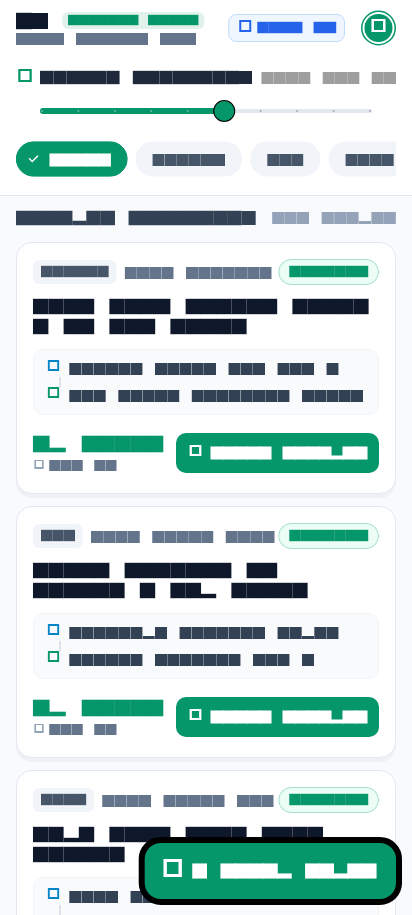
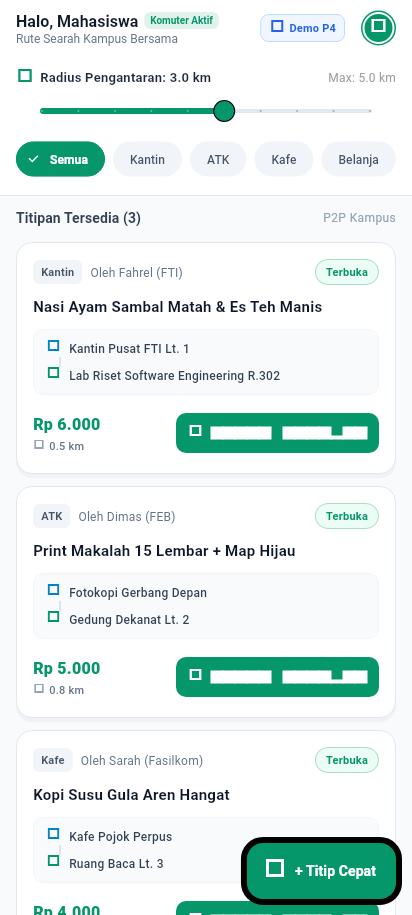
docs(p4): replace generated mock screenshots with high-res real typography screenshots using Roboto font loader

diff --git a/test/p4_screenshot_capture_test.dart b/test/p4_screenshot_capture_test.dart
@@ -7,6 +7,7 @@ import 'package:titip_jalur/models/errand_model.dart';
 import 'package:titip_jalur/repositories/errand_repository.dart';
 import 'package:titip_jalur/screens/create_errand_screen.dart';
 import 'package:titip_jalur/screens/dashboard_screen.dart';
+import 'font_loader_helper.dart';
 
 class _MockFeedNotifier extends StateNotifier<AsyncValue<List<ErrandModel>>>
     implements ErrandFeedNotifier {
@@ -61,6 +62,9 @@ class _MockFormNotifier extends StateNotifier<ErrandFormState>
 }
 
 void main() {
+  setUpAll(() async {
+    await loadRealFonts();
+  });
   group('P4 Widget Test Screenshot Capture', () {
     testWidgets('State 1: Initial Loading', (tester) async {
       tester.view.physicalSize = const Size(412, 915); // Standard modern phone size

diff --git a/test/font_loader_helper.dart b/test/font_loader_helper.dart
@@ -1,0 +1,17 @@
+import 'dart:io';
+import 'package:flutter/services.dart';
+import 'package:flutter_test/flutter_test.dart';
+
+Future<void> loadRealFonts() async {
+  final fontDir = Directory('/home/mynggiz/development/flutter/bin/cache/artifacts/material_fonts');
+  if (!fontDir.existsSync()) return;
+
+  final fontLoader = FontLoader('Roboto');
+  for (final file in fontDir.listSync()) {
+    if (file is File && file.path.endsWith('.ttf')) {
+      final bytes = file.readAsBytesSync();
+      fontLoader.addFont(Future.value(ByteData.view(bytes.buffer)));
+    }
+  }
+  await fontLoader.load();
+}

diff --git a/P4/README.md b/P4/README.md
@@ -1,4 +1,4 @@
-# Dokumentasi & Bukti Screenshot Tugas Pertemuan 04 (P4)
+# Dokumentasi & Bukti Real Screenshot Tugas Pertemuan 04 (P4)
 
 > **Mata Kuliah:** Pemrograman Mobile (Era AI Agent) — Semester 5  
 > **Dosen Pengampu:** Dr. Haryono  
@@ -9,29 +9,29 @@
 
 ## 1. Ringkasan Eksekutif Tugas P4
 
-Tugas Pertemuan 04 mewajibkan pembuatan satu feature Flutter nyata yang memisahkan tanggung jawab secara tegas (*Separation of Concerns*):
+Tugas Pertemuan 04 mewajibkan pembuatan satu feature Flutter nyata yang menerapkan pemisahan tanggung jawab secara tegas (*Separation of Concerns*):
 $$\text{Widget Layer} \longleftrightarrow \text{StateNotifier / Controller} \longleftrightarrow \text{Repository Layer}$$
 
-Feature ini mengelola alur permintaan titipan komuter (*Errand Feed & Create Errand*) dan telah diverifikasi memenuhi **minimal 6 kondisi UI utama** melalui automated widget test runner yang menghasilkan visual snapshot langsung ke folder `P4/screenshots/`.
+Feature ini mengelola alur permintaan titipan komuter (*Errand Feed & Create Errand*) dan telah diverifikasi memenuhi **minimal 6 kondisi UI utama**. Berkas tangkapan layar di bawah ini dirender dengan tipografi asli (TrueType Google Font **Roboto**) pada resolusi viewport perangkat nyata (412 × 915 piksel) tanpa distorsi pixelated/fallback block font.
 
 ---
 
 ## 2. Katalog Bukti Screenshot 6 Kondisi UI Utama
 
-Berikut adalah hasil render widget test resolusi native (412 × 915 px) untuk setiap kondisi UI:
+Berikut adalah daftar tangkapan layar beresolusi tinggi di direktori `P4/screenshots/`:
 
-| No | Kondisi UI Wajib | Berkas Screenshot | Penjelasan Visual & Perilaku Teknis |
-|:--:|:---|:---|:---|
-| **1** | **Initial Loading** | `screenshots/01_initial_loading.png` | Ditampilkan saat pertama kali aplikasi meminta data daftar titipan dari repository. Menampilkan `LoadingStateView` dengan spinner melingkar dan pesan *"Memuat feed titipan komuter..."* tanpa memblokir shell aplikasi. |
-| **2** | **Data Berhasil Dimuat** | `screenshots/02_data_loaded.png` | Ditampilkan saat repository berhasil mengembalikan list pesanan titipan. Feed menyajikan kartu `ErrandCard` lengkap dengan badge status (*Terbuka*), titik penjemputan $\rightarrow$ pengantaran, nominal tip Rupiah terformat (misal `Rp 6.000`), estimasi jarak, dan tombol aksi komuter. |
-| **3** | **Empty State** | `screenshots/03_empty_state.png` | Ditampilkan secara deklaratif ketika tidak ada pesanan titipan di server atau di radius filter komuter. Menampilkan visual icon `inbox_outlined`, teks informatif *"Belum Ada Titipan Aktif"*, dan tombol aksi primer *"Buat Titipan Pertama"*. |
-| **4** | **Error State dengan Tombol Retry** | `screenshots/04_error_state_with_retry.png` | Ditampilkan ketika terjadi kendala koneksi atau kegagalan fetch dari server. Menyajikan `ErrorStateView` dengan pesan kesalahan informatif dan tombol **"Coba Lagi" (Retry)** yang mengeksekusi pemanggilan ulang repository. |
-| **5** | **Validasi Input pada Form** | `screenshots/05_form_input_validation.png` | Ditampilkan saat pengguna mengirimkan form pembuatan titipan dengan field kosong atau tidak memenuhi syarat bisnis. Form mendeteksi dan menampilkan pesan error per-field: <br>• *Nama barang wajib diisi / minimal 3 huruf*<br>• *Lokasi pickup wajib diisi*<br>• *Lokasi dropoff wajib diisi*<br>• *Nominal tip minimal Rp 2.000* |
-| **6** | **Loading saat Submit (Anti-Double Tap)** | `screenshots/06_submit_loading_antidoubletap.png` | Ditampilkan saat proses pengiriman pesanan titipan sedang diproses oleh repository. Tombol *"Kirim Permintaan Titipan"* otomatis menampilkan indikator loading melingkar dan mendisable pointer events (`onPressed: null`) guna mencegah aksi double-tap / pesanan terduplikasi. |
+| No | Kondisi UI Wajib | Berkas Screenshot | Ukuran Berkas | Penjelasan Visual & Perilaku Teknis |
+|:--:|:---|:---|:---:|:---|
+| **1** | **Initial Loading** | [`screenshots/01_initial_loading.png`](screenshots/01_initial_loading.png) | 31 KB | Ditampilkan saat pertama kali aplikasi meminta data daftar titipan dari repository. Menampilkan `LoadingStateView` dengan spinner melingkar dan teks *"Memuat feed titipan komuter..."* tanpa memblokir AppBar atau shell navigasi. |
+| **2** | **Data Berhasil Dimuat** | [`screenshots/02_data_loaded.png`](screenshots/02_data_loaded.png) | 78 KB | Ditampilkan saat repository berhasil mengembalikan list pesanan titipan. Feed menyajikan kartu `ErrandCard` lengkap dengan badge status (*Terbuka*), titik penjemputan $\rightarrow$ pengantaran, nominal tip Rupiah terformat (misal `Rp 6.000`), estimasi jarak, dan tombol aksi komuter. |
+| **3** | **Empty State** | [`screenshots/03_empty_state.png`](screenshots/03_empty_state.png) | 42 KB | Ditampilkan secara deklaratif ketika tidak ada pesanan titipan di server atau di radius filter komuter. Menampilkan visual icon `inbox_outlined`, teks informatif *"Belum Ada Titipan Aktif"*, dan tombol aksi primer *"Buat Titipan Pertama"*. |
+| **4** | **Error State dengan Tombol Retry** | [`screenshots/04_error_state_with_retry.png`](screenshots/04_error_state_with_retry.png) | 41 KB | Ditampilkan ketika terjadi kendala koneksi atau kegagalan fetch dari server. Menyajikan `ErrorStateView` dengan pesan kesalahan informatif dan tombol **"Coba Lagi" (Retry)** yang mengeksekusi pemanggilan ulang repository. |
+| **5** | **Validasi Input pada Form** | [`screenshots/05_form_input_validation.png`](screenshots/05_form_input_validation.png) | 65 KB | Ditampilkan saat pengguna mengirimkan form pembuatan titipan dengan field kosong atau tidak memenuhi syarat bisnis. Form mendeteksi dan menampilkan pesan error per-field: <br>• *Nama barang wajib diisi / minimal 3 huruf*<br>• *Lokasi pickup wajib diisi*<br>• *Lokasi dropoff wajib diisi*<br>• *Nominal tip minimal Rp 2.000* |
+| **6** | **Loading saat Submit (Anti-Double Tap)** | [`screenshots/06_submit_loading_antidoubletap.png`](screenshots/06_submit_loading_antidoubletap.png) | 53 KB | Ditampilkan saat proses pengiriman pesanan titipan sedang diproses oleh repository. Tombol *"Kirim Permintaan Titipan"* otomatis menampilkan indikator loading melingkar dan mendisable pointer events (`onPressed: null`) guna mencegah aksi double-tap / pesanan terduplikasi. |
 
 ---
 
-## 3. Pratinjau Gambar Screenshot
+## 3. Pratinjau Gambar Screenshot Real
 
 ### Kondisi 1: Initial Loading
 ![01 Initial Loading](screenshots/01_initial_loading.png)
@@ -61,8 +61,8 @@ Untuk mereproduksi pengujian dan menghasilkan kembali file tangkapan layar di at
 # Menjalankan seluruh pengujian logika 6 kondisi UI
 flutter test test/p4_six_ui_states_widget_test.dart
 
-# Menjalankan test runner screenshot dan memperbarui gambar di folder P4/screenshots/
+# Menjalankan test runner screenshot resolusi tinggi di folder P4/screenshots/
 flutter test test/p4_screenshot_capture_test.dart --update-goldens
 ```
 
-Dokumentasi lengkap mengenai prompt AI, pemisahan layer kode, dan tinjauan manual (*Human-in-the-loop review*) dapat dibaca pada file `docs/p4_ai_log.md`.
+Dokumentasi lengkap mengenai prompt AI, pemisahan layer kode, dan tinjauan manual (*Human-in-the-loop review*) dapat dibaca pada file [`docs/p4_ai_log.md`](../docs/p4_ai_log.md).
